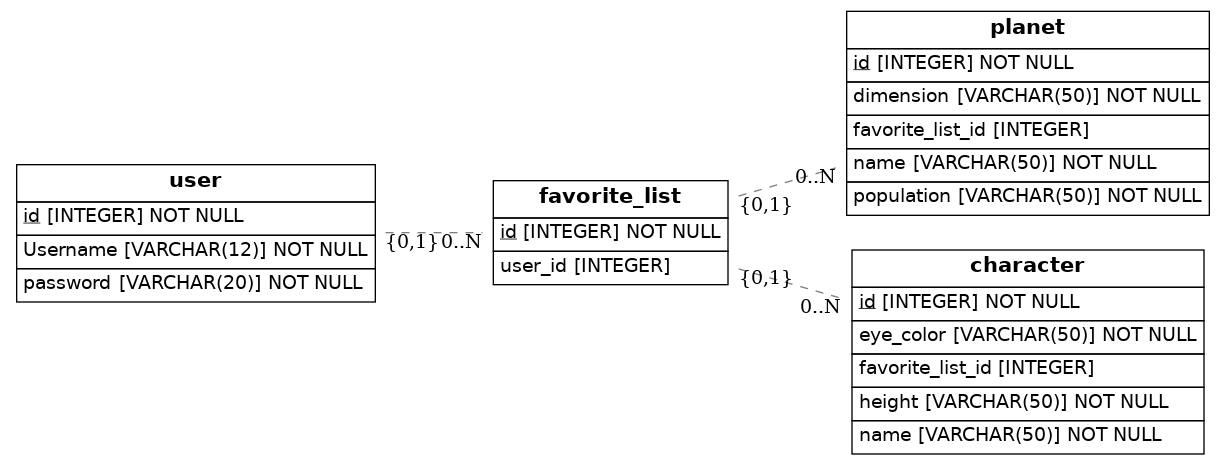
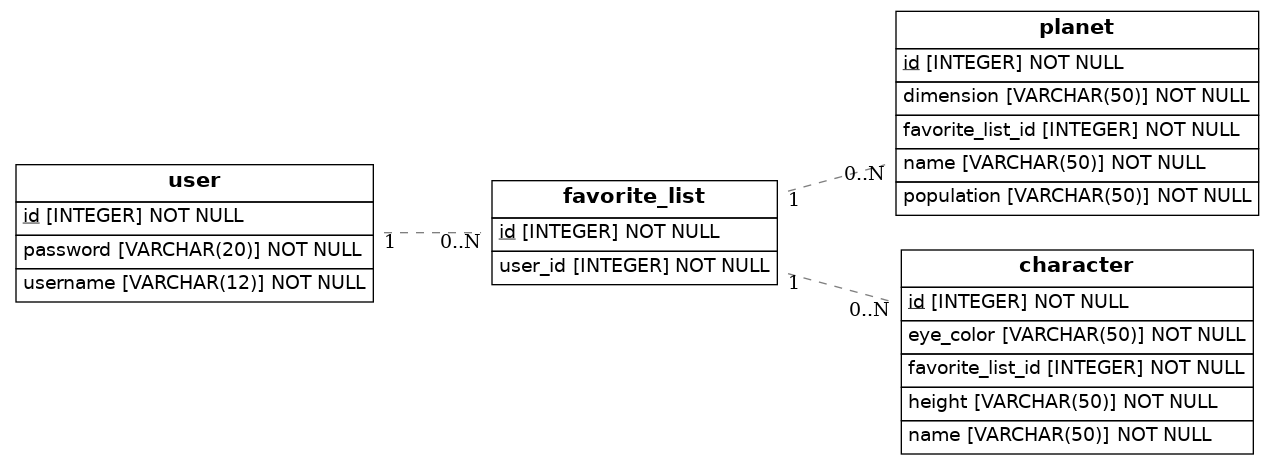
v1.5

diff --git a/src/models.py b/src/models.py
@@ -32,19 +32,19 @@ Base = declarative_base()
 class User(Base): #parent
     __tablename__ = 'user'
     id = Column(Integer,primary_key=True)
-    Username = Column(String(12), nullable= False, unique=True)
+    username = Column(String(12), nullable= False, unique=True)
     password = Column(String (20), nullable= False)
     favorite_list = relationship("Favorite_list", back_populates="user")
 
 class Favorite_list(Base): #child   
     __tablename__ = 'favorite_list'
     id = Column(Integer, primary_key=True)
-    user_id = Column(Integer, ForeignKey("user.id"))
+    user_id = Column(Integer, ForeignKey("user.id"), nullable= False)
     #planet_id = Column(Integer, ForeignKey("planet.id"))
     #character_id = Column(Integer, ForeignKey("character.id"))
     user = relationship("User", back_populates="favorite_list")
     planet = relationship("Planet", back_populates="favorite_list")
-    planet = relationship("Character", back_populates="favorite_list")
+    character = relationship("Character", back_populates="favorite_list")
 
 class Planet(Base):
     __tablename__ = 'planet'
@@ -52,7 +52,7 @@ class Planet(Base):
     name = Column(String(50), nullable=False)
     dimension = Column(String(50), nullable=False)
     population = Column(String(50), nullable=False)
-    favorite_list_id = Column(Integer, ForeignKey("favorite_list.id"))
+    favorite_list_id = Column(Integer, ForeignKey("favorite_list.id"), nullable= False)
     favorite_list = relationship("Favorite_list", back_populates="planet")
     
 
@@ -62,7 +62,7 @@ class Character(Base):
     name = Column(String(50), nullable=False)
     eye_color = Column(String(50), nullable=False)
     height = Column(String(50), nullable=False)
-    favorite_list_id = Column(Integer, ForeignKey("favorite_list.id"))
+    favorite_list_id = Column(Integer, ForeignKey("favorite_list.id"), nullable= False)
     favorite_list = relationship("Favorite_list", back_populates="character")
 
 
